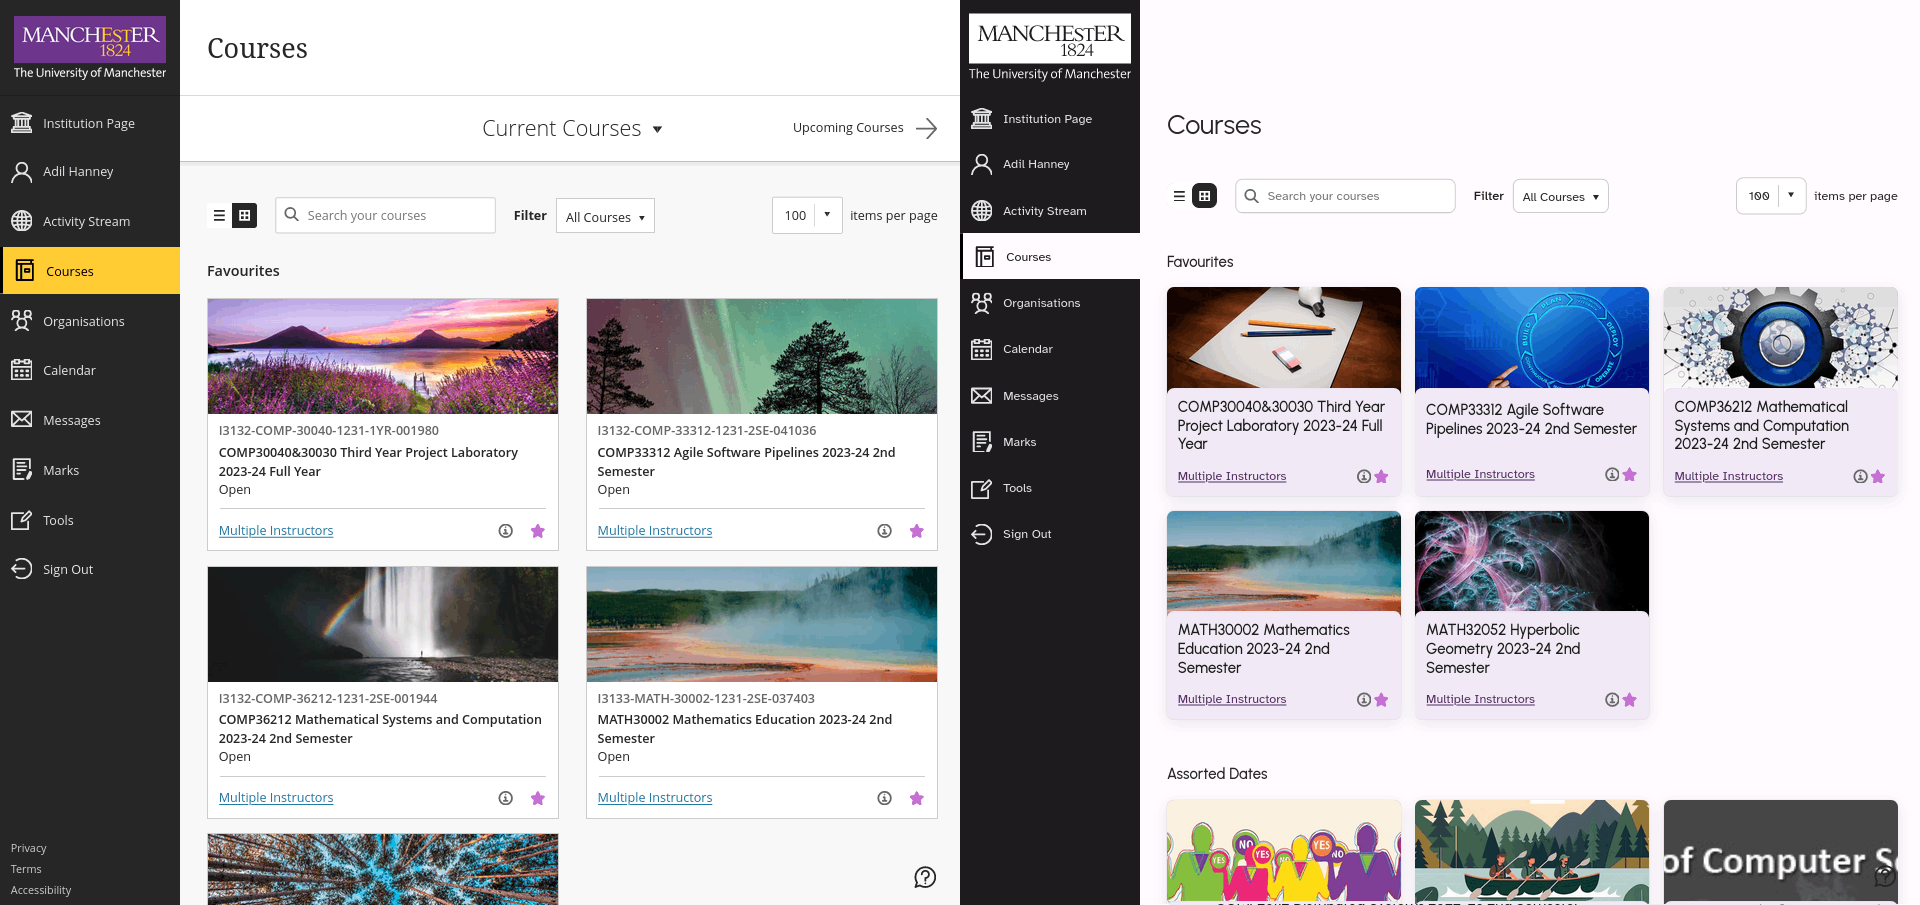
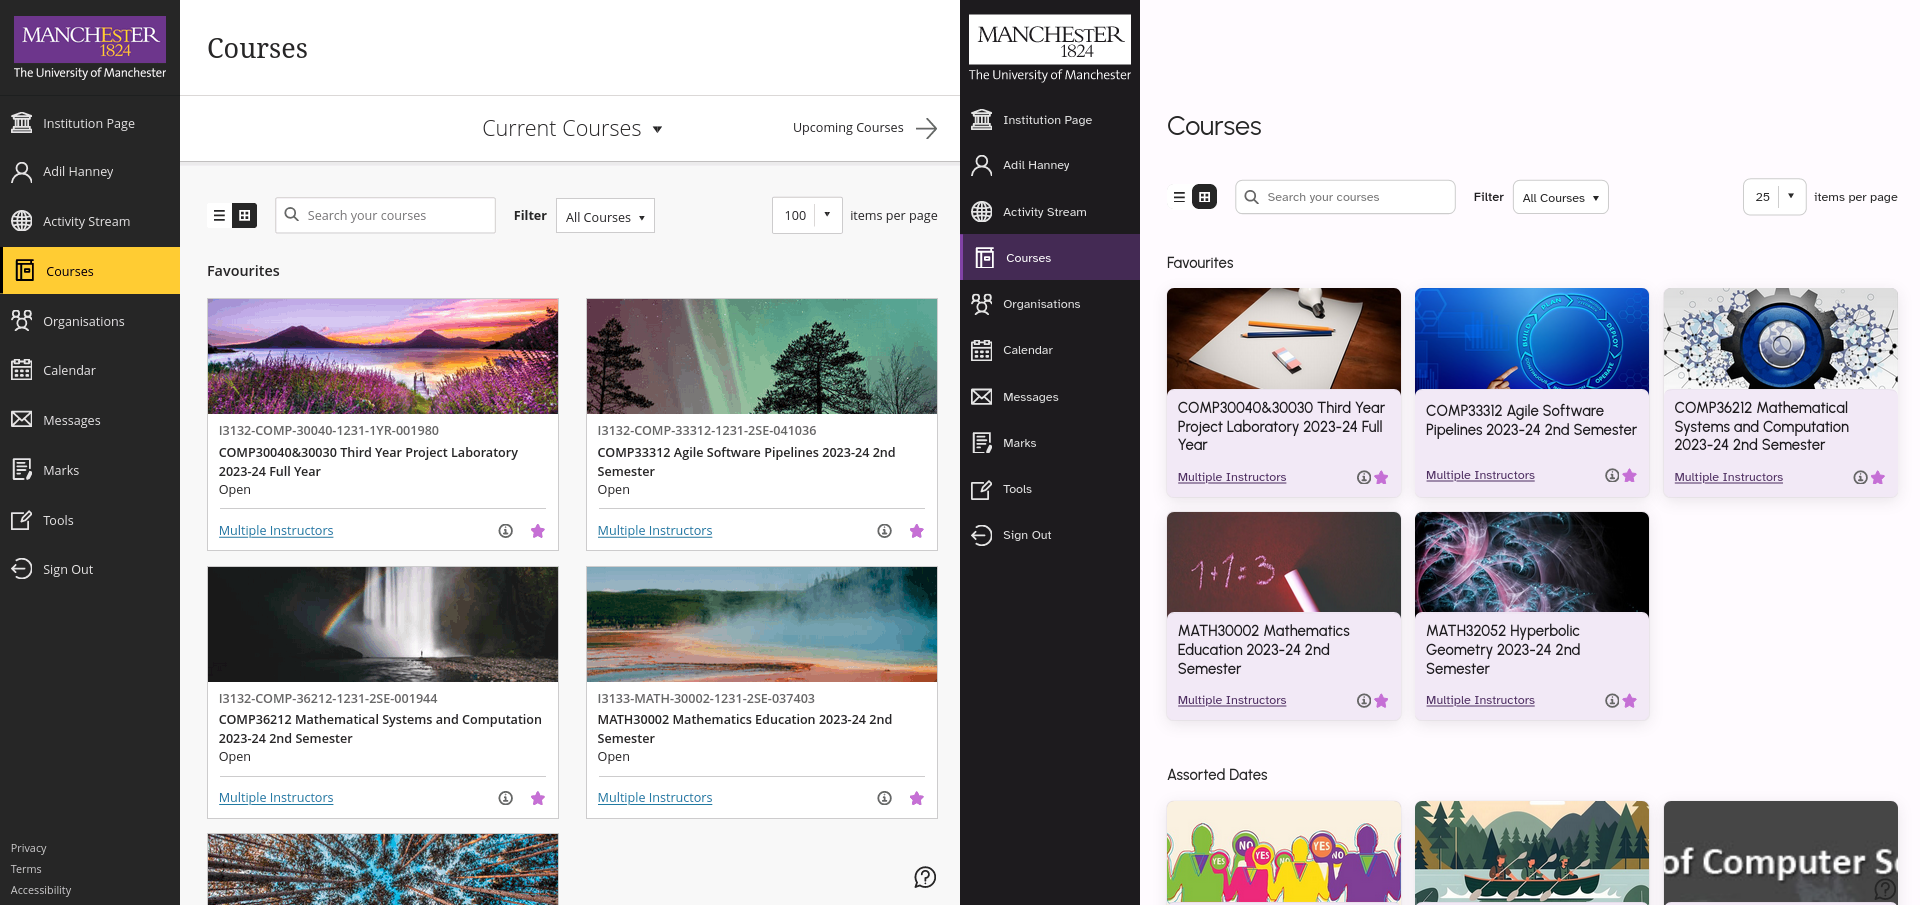
feat: set navbar selected color to purple

diff --git a/src/styles/online.manchester.ac.uk_ultra.scss b/src/styles/online.manchester.ac.uk_ultra.scss
@@ -110,8 +110,8 @@ nav ul#base_tools bb-base-navigation-button {
 
     // the active one
     &:has(.base-navigation-button.active) {
-        background-color: $background;
-        color: $on-background;
+        background-color: rgba($primary, 0.4) !important;
+        color: $on-primary;
         * {
             color: inherit !important;
         }
